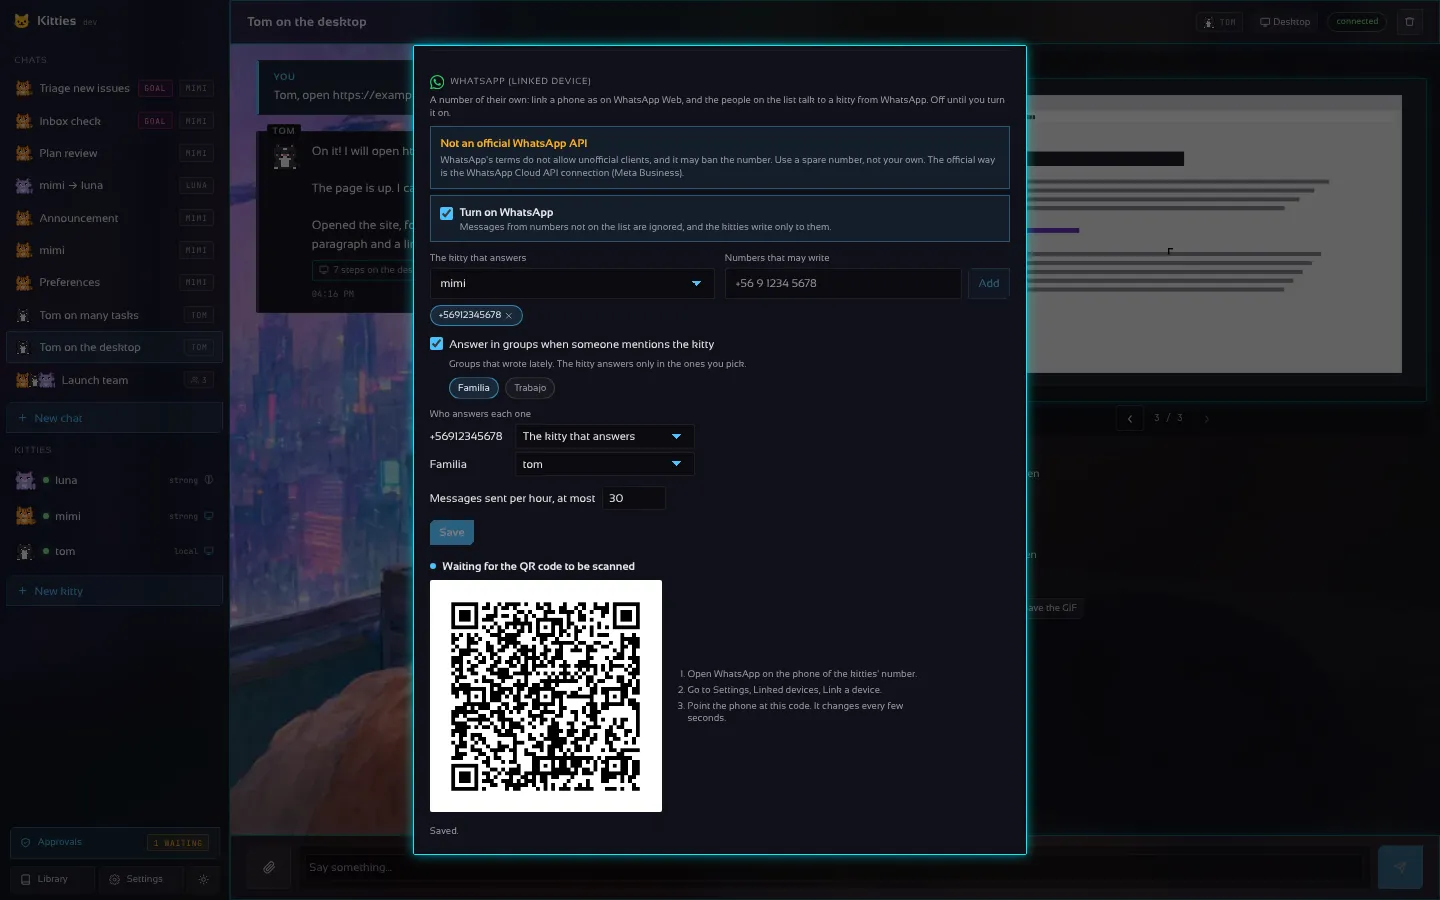
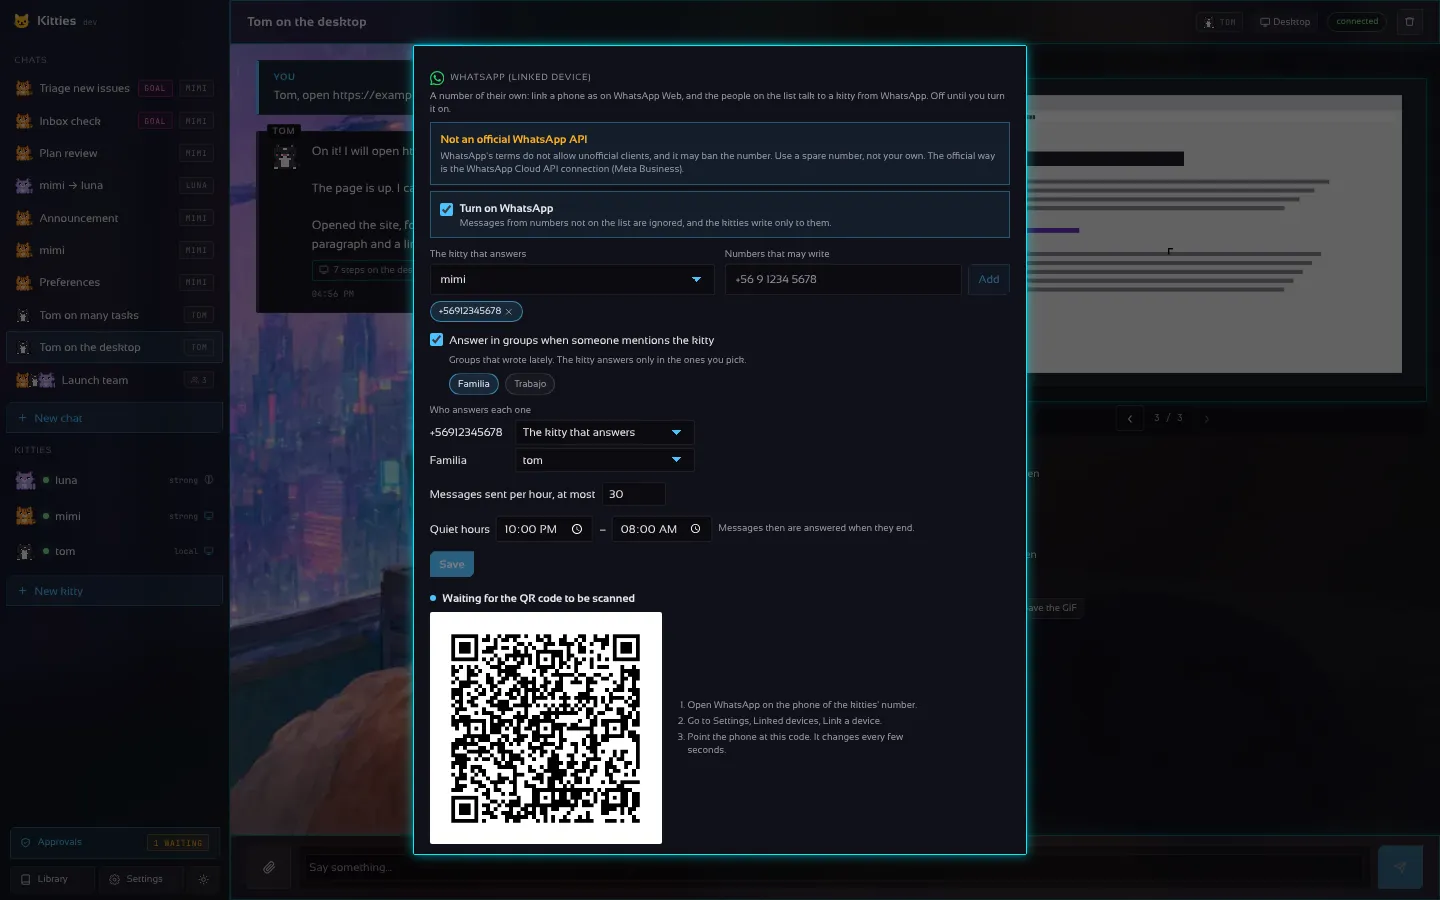
docs(whatsapp): quotes, quiet hours and reconnect
Claude-Session: https://claude.ai/code/session_017Z7sUbSYL2DPKWnmDEkcnW

Changed region(s): [[0.2812, 0.0622, 0.6875, 0.9644], [0.5, 0.56, 0.625, 0.5911], [0.4375, 0.56, 0.4688, 0.5911]]

diff --git a/site/es/index.html b/site/es/index.html
@@ -45,7 +45,7 @@
 <figure class="one"><img src="../img/attach.webp" alt="Un chat con una imagen y una hoja de cálculo adjuntas, y un PDF esperando en el cuadro de mensaje" loading="lazy" width="1440" height="900"><figcaption>Un mensaje con una imagen y una hoja de cálculo, y un PDF listo para enviar</figcaption></figure></section>
 <section id="claude" class="wrap"><h2>Deja que Claude maneje la flota</h2><p class="lead">Activa el conector MCP en Ajustes y Claude Code o claude.ai podrán listar, crear, encender y dar tareas a tus kitties. Tú eliges qué puede hacer, copias el comando de conexión y revocas cualquier cliente con un clic. El token nunca se muestra.</p>
 <figure class="one"><img src="../img/mcp.webp" alt="Ajustes, Claude (MCP): los interruptores, el comando de conexión y los clientes con sesión" loading="lazy" width="1440" height="900"><figcaption>Ajustes → Preferencias → Claude (MCP)</figcaption></figure></section>
-<section id="whatsapp" class="wrap"><h2>Conversa con tus kitties por WhatsApp</h2><p class="lead">Dales a los kitties un número propio: vincula un teléfono de repuesto como en WhatsApp Web escaneando un código QR en Ajustes. Las personas que pongas en la lista conversan con un kitty desde WhatsApp, y los kitties les responden, "escribiendo…" mientras piensan. Responden en los grupos que elijas cuando los nombran, leen fotos, documentos, stickers y ubicaciones, escuchan notas de voz, devuelven los archivos que hacen y reaccionan con emojis. Cada número o grupo puede tener su propio kitty, con un límite por hora para cuidar el número. Viene desactivado, la lista parte vacía y la sesión queda sellada con la llave del vault. No es una API oficial y WhatsApp puede bloquear el número; la vía oficial es la conexión WhatsApp Cloud API.</p>
+<section id="whatsapp" class="wrap"><h2>Conversa con tus kitties por WhatsApp</h2><p class="lead">Dales a los kitties un número propio: vincula un teléfono de repuesto como en WhatsApp Web escaneando un código QR en Ajustes. Las personas que pongas en la lista conversan con un kitty desde WhatsApp, y los kitties les responden, "escribiendo…" mientras piensan. Responden en los grupos que elijas cuando los nombran, leen fotos, documentos, stickers y ubicaciones, escuchan notas de voz, devuelven los archivos que hacen y reaccionan con emojis. Cada número o grupo puede tener su propio kitty, con un límite por hora y un horario de silencio para cuidar el número. Viene desactivado, la lista parte vacía y la sesión queda sellada con la llave del vault. No es una API oficial y WhatsApp puede bloquear el número; la vía oficial es la conexión WhatsApp Cloud API.</p>
 <figure class="one"><img src="../img/whatsapp.webp" alt="Ajustes, WhatsApp: el aviso de riesgo, el kitty que responde, los números permitidos y el código QR para escanear" loading="lazy" width="1440" height="900"><figcaption>Ajustes → Conexiones → WhatsApp (dispositivo vinculado)</figcaption></figure></section>
 <section id="claude" class="wrap"><h2>Que Claude dirija la flota</h2><p class="lead">Kitties habla MCP. Conecta Claude Code o claude.ai y Claude se vuelve el orquestador: crea, inicia y detiene kitties, les da tareas, mira sus escritorios y lee sus diarios. Viene desactivado, con un token propio; aprobar acciones de riesgo sigue siendo cosa tuya.</p>
 <div class="term"><pre><code>claude mcp add --transport http kitties http://127.0.0.1:7488/mcp \

diff --git a/site/index.html b/site/index.html
@@ -46,7 +46,7 @@
 <figure class="one"><img src="img/attach.webp" alt="A chat where a picture and a spreadsheet were attached, with a PDF waiting in the composer" loading="lazy" width="1440" height="900"><figcaption>A message with a picture and a spreadsheet, and a PDF waiting to be sent</figcaption></figure></section>
 <section id="claude" class="wrap"><h2>Let Claude run the fleet</h2><p class="lead">Turn on the MCP connector in Settings and Claude Code or claude.ai can list, create, start and give tasks to your kitties. You choose what it may do, copy the connect command and revoke any client in a click. The token is never shown.</p>
 <figure class="one"><img src="img/mcp.webp" alt="Settings, Claude (MCP): the switches, the connect command and the signed-in clients" loading="lazy" width="1440" height="900"><figcaption>Settings → Preferences → Claude (MCP)</figcaption></figure></section>
-<section id="whatsapp" class="wrap"><h2>Talk to your kitties on WhatsApp</h2><p class="lead">Give the kitties a number of their own: link a spare phone as on WhatsApp Web by scanning a QR code in Settings. The people you put on the list chat with a kitty from WhatsApp, and the kitties write back to them, "typing…" while they think. They answer in the groups you pick when mentioned, read pictures, documents, stickers and locations, hear voice notes, send back the files they make and react with emoji. Each number or group can have its own kitty, with an hourly limit to keep the number safe. Off by default, the list starts empty and the session is sealed with the vault's key. It is not an official API and WhatsApp may ban the number; the official way is the WhatsApp Cloud API connection.</p>
+<section id="whatsapp" class="wrap"><h2>Talk to your kitties on WhatsApp</h2><p class="lead">Give the kitties a number of their own: link a spare phone as on WhatsApp Web by scanning a QR code in Settings. The people you put on the list chat with a kitty from WhatsApp, and the kitties write back to them, "typing…" while they think. They answer in the groups you pick when mentioned, read pictures, documents, stickers and locations, hear voice notes, send back the files they make and react with emoji. Each number or group can have its own kitty, with an hourly limit and quiet hours to keep the number safe. Off by default, the list starts empty and the session is sealed with the vault's key. It is not an official API and WhatsApp may ban the number; the official way is the WhatsApp Cloud API connection.</p>
 <figure class="one"><img src="img/whatsapp.webp" alt="Settings, WhatsApp: the risk notice, the kitty that answers, the allowed numbers and the QR code to scan" loading="lazy" width="1440" height="900"><figcaption>Settings → Connections → WhatsApp (linked device)</figcaption></figure></section>
 <section id="claude" class="wrap"><h2>Let Claude run the fleet</h2><p class="lead">Kitties speaks MCP. Connect Claude Code or claude.ai and Claude becomes the orchestrator: it creates, starts and stops kitties, gives them tasks, looks at their desktops and reads their journals. Off by default, with a token of its own; approving risky actions stays with you.</p>
 <div class="term"><pre><code>claude mcp add --transport http kitties http://127.0.0.1:7488/mcp \

diff --git a/docs/WHATSAPP.es.md b/docs/WHATSAPP.es.md
@@ -30,7 +30,8 @@ escribirles con el conector `whatsapp-web`.
    grupos, y elige los grupos: ahí aparecen los que escribieron hace poco (WhatsApp no le da a un
    dispositivo vinculado la lista de grupos hasta que escriben). Con más de un kitty, **Quién
    responde a cada uno** le da a un número o grupo su propio kitty; **Mensajes enviados por hora**
-   limita lo que sale (60 si se deja vacío).
+   limita lo que sale (60 si se deja vacío); el **Horario de silencio** guarda las respuestas hasta
+   que termina.
 3. Marca **Activar WhatsApp**, luego **Entiendo que WhatsApp puede bloquear este número**, y
    **Guardar**.
 4. Aparece un código QR. En el teléfono del número de los kitties: WhatsApp, Ajustes,
@@ -39,7 +40,8 @@ escribirles con el conector `whatsapp-web`.
 5. Cuando diga **Conectado · +número**, **Enviar una prueba** escribe a un número de la lista.
 
 El teléfono debe seguir encendido y conectarse de vez en cuando (WhatsApp desvincula un dispositivo
-cuyo teléfono lleva unas dos semanas apagado). **Desvincular** quita el dispositivo del teléfono y
+cuyo teléfono lleva unas dos semanas apagado). Si la conexión se cae, **Reconectar** la abre de nuevo
+con la sesión guardada, sin otro código. **Desvincular** quita el dispositivo del teléfono y
 olvida la sesión.
 
 ## Cómo funciona
@@ -52,6 +54,12 @@ olvida la sesión.
 - **Leído y reacciones.** Un mensaje se marca como leído (ticks azules) cuando el kitty lo toma. Una
   respuesta que es solo un emoji va como reacción al mensaje, y los kitties pueden reaccionar con
   el conector.
+- **Citas.** En un grupo, y en un chat donde llegaron mensajes nuevos entretanto, la respuesta cita
+  el mensaje al que responde.
+- **Horario de silencio.** De una hora a otra (el reloj del gateway, `TZ`), un mensaje recibe un
+  aviso corto en el idioma del kitty ("🌙 luna descansa hasta las 08:00…") y su respuesta al
+  terminar; los envíos y reacciones de los kitties también esperan. Los mensajes en espera quedan en
+  memoria: un reinicio durante el silencio los pierde.
 - **Un kitty por número o grupo.** Cada número o grupo puede tener su propio kitty; los demás van al
   kitty que responde. Cambiar uno de kitty abre un chat nuevo con él.
 - **Un límite por hora.** Cuenta todo mensaje, archivo y reacción que sale; pasado el límite una
@@ -106,6 +114,7 @@ whatsapp:
   allow_groups: ["120363012345678901@g.us"]   # los ids que lista Ajustes (GET /v1/whatsapp, seen_groups)
   kitties: {"+1 555 000 1111": luna, "120363012345678901@g.us": tom}
   max_per_hour: 30               # 0: 60
+  quiet: {from: "22:00", to: "08:00"}
   transcribe: ""                 # el perfil openai o groq para notas de voz; vacío: el primero; off: ninguno
 ```
 
@@ -128,9 +137,10 @@ el teléfono de nuevo con otro código.
 
 | Ruta | Qué hace |
 | --- | --- |
-| `GET /v1/whatsapp` | El vínculo: `enabled`, `allow`, `kitty`, `state` (`off`, `starting`, `qr`, `qr_expired`, `connected`, `disconnected`, `logged_out`, `error`), `qr` y `qr_png` (un data URL PNG) mientras espera, `phone`, `linked`, `ignored`, `seen_groups` (los grupos que escribieron hace poco), `sent_last_hour`, `held` |
-| `PUT /v1/whatsapp` | `{"enabled", "allow", "kitty", "groups", "allow_groups", "kitties", "max_per_hour"}`; activarlo necesita `"accept_risk": true` |
+| `GET /v1/whatsapp` | El vínculo: `enabled`, `allow`, `kitty`, `state` (`off`, `starting`, `qr`, `qr_expired`, `connected`, `disconnected`, `logged_out`, `error`), `qr` y `qr_png` (un data URL PNG) mientras espera, `phone`, `linked`, `ignored`, `seen_groups` (los grupos que escribieron hace poco), `sent_last_hour`, `held`, `quiet`, `waiting` |
+| `PUT /v1/whatsapp` | `{"enabled", "allow", "kitty", "groups", "allow_groups", "kitties", "max_per_hour", "quiet_from", "quiet_to"}`; activarlo necesita `"accept_risk": true` |
 | `POST /v1/whatsapp/link` | Códigos QR nuevos (si expiraron o el teléfono quitó el dispositivo) |
+| `POST /v1/whatsapp/reconnect` | Conecta de nuevo con la sesión guardada (sin otro código) |
 | `POST /v1/whatsapp/unlink` | Quita el dispositivo del teléfono y olvida la sesión |
 | `POST /v1/whatsapp/test` | `{"to": "+56912345678"}` manda un mensaje corto a un número de la lista |
 

diff --git a/docs/WHATSAPP.md b/docs/WHATSAPP.md
@@ -30,7 +30,7 @@ connector.
    and pick the groups: the ones that wrote lately show up there (WhatsApp gives a linked device no
    list of groups until they write). With more than one kitty, **Who answers each one** gives a
    number or a group a kitty of its own; **Messages sent per hour** caps what goes out (60 when
-   left empty).
+   left empty); **Quiet hours** hold the answers until they end.
 3. Tick **Turn on WhatsApp**, then **I understand that WhatsApp may ban this number**, and **Save**.
 4. A QR code appears. On the phone of the kitties' number: WhatsApp, Settings, **Linked devices**,
    **Link a device**, and point it at the code. The code changes every few seconds; if they run out,
@@ -38,7 +38,8 @@ connector.
 5. Once it says **Connected · +number**, **Send a test** writes to a number on the list.
 
 The phone must stay on and online from time to time (WhatsApp unlinks a device whose phone has been
-off for about two weeks). **Unlink** removes the device from the phone and forgets the session.
+off for about two weeks). When the connection drops, **Reconnect** opens it again with the kept
+session, without a new code. **Unlink** removes the device from the phone and forgets the session.
 
 ## How it works
 
@@ -50,6 +51,12 @@ off for about two weeks). **Unlink** removes the device from the phone and forge
 - **Read, and reactions.** A message is marked read (blue ticks) when the kitty starts on it. An
   answer that is only an emoji goes as a reaction to the message, and the kitties can react with
   the connector.
+- **Quotes.** In a group, and in a chat where newer messages came in the meantime, the answer quotes
+  the message it answers.
+- **Quiet hours.** From one time to another (the gateway's clock, `TZ`), a message gets one short
+  note in the kitty's language ("🌙 luna is resting until 08:00…") and its answer when they end; the
+  kitties' own sends and reactions wait too. Messages waiting are kept in memory: a restart in the
+  quiet hours loses them.
 - **A kitty per number or group.** Each number or group may have its own kitty; the others go to
   the kitty that answers. Moving one to another kitty starts a new chat with it.
 - **An hourly limit.** Every message, file and reaction that goes out counts; past the limit a
@@ -101,6 +108,7 @@ whatsapp:
   allow_groups: ["120363012345678901@g.us"]   # the ids Settings lists (GET /v1/whatsapp, seen_groups)
   kitties: {"+1 555 000 1111": luna, "120363012345678901@g.us": tom}
   max_per_hour: 30               # 0: 60
+  quiet: {from: "22:00", to: "08:00"}
   transcribe: ""                 # the openai or groq profile for voice notes; empty: the first; off: none
 ```
 
@@ -123,9 +131,10 @@ phone is linked again with a new code.
 
 | Route | What it does |
 | --- | --- |
-| `GET /v1/whatsapp` | The link: `enabled`, `allow`, `kitty`, `state` (`off`, `starting`, `qr`, `qr_expired`, `connected`, `disconnected`, `logged_out`, `error`), `qr` and `qr_png` (a PNG data URL) while it waits, `phone`, `linked`, `ignored`, `seen_groups` (the groups that wrote lately), `sent_last_hour`, `held` |
-| `PUT /v1/whatsapp` | `{"enabled", "allow", "kitty", "groups", "allow_groups", "kitties", "max_per_hour"}`; turning it on needs `"accept_risk": true` |
+| `GET /v1/whatsapp` | The link: `enabled`, `allow`, `kitty`, `state` (`off`, `starting`, `qr`, `qr_expired`, `connected`, `disconnected`, `logged_out`, `error`), `qr` and `qr_png` (a PNG data URL) while it waits, `phone`, `linked`, `ignored`, `seen_groups` (the groups that wrote lately), `sent_last_hour`, `held`, `quiet`, `waiting` |
+| `PUT /v1/whatsapp` | `{"enabled", "allow", "kitty", "groups", "allow_groups", "kitties", "max_per_hour", "quiet_from", "quiet_to"}`; turning it on needs `"accept_risk": true` |
 | `POST /v1/whatsapp/link` | New QR codes (after they expired or the phone logged the device out) |
+| `POST /v1/whatsapp/reconnect` | Connects again with the kept session (no new code) |
 | `POST /v1/whatsapp/unlink` | Removes the device from the phone and forgets the session |
 | `POST /v1/whatsapp/test` | `{"to": "+56912345678"}` sends a short message to a number on the list |
 

diff --git a/docs/API.md b/docs/API.md
@@ -42,6 +42,6 @@
 
 `POST /mcp` is the [MCP connector](MCP.md) (off by default, its own bearer token). `GET /v1/mcp/clients` · `DELETE /v1/mcp/clients/{id}` list and revoke the OAuth clients that signed in. `GET`/`PUT /v1/mcp` read and change the connector's switches (`accept_risk` to turn on exec or approve; the gateway restarts); `GET /v1/mcp/token` returns its token (explicit, never cached) and `POST /v1/mcp/token` rotates it; `POST /v1/mcp/test` asks the connector for its tools and says whether it answers.
 
-`GET`/`PUT /v1/whatsapp` read and change the [WhatsApp link](WHATSAPP.md) (on, the allow list, the kitty that answers, the groups it answers in and the ones that wrote lately, a kitty per number or group, the hourly limit; `accept_risk` to turn it on) and give the QR code to scan while it waits; `POST /v1/whatsapp/link` asks for new codes, `POST /v1/whatsapp/unlink` removes the device and forgets its session, and `POST /v1/whatsapp/test` writes to a number on the list.
+`GET`/`PUT /v1/whatsapp` read and change the [WhatsApp link](WHATSAPP.md) (on, the allow list, the kitty that answers, the groups it answers in and the ones that wrote lately, a kitty per number or group, the hourly limit, the quiet hours; `accept_risk` to turn it on) and give the QR code to scan while it waits; `POST /v1/whatsapp/link` asks for new codes, `POST /v1/whatsapp/reconnect` connects again with the kept session, `POST /v1/whatsapp/unlink` removes the device and forgets its session, and `POST /v1/whatsapp/test` writes to a number on the list.
 
 Every other call needs `Authorization: Bearer <token>`; `/` and `/v1/health` are open.
